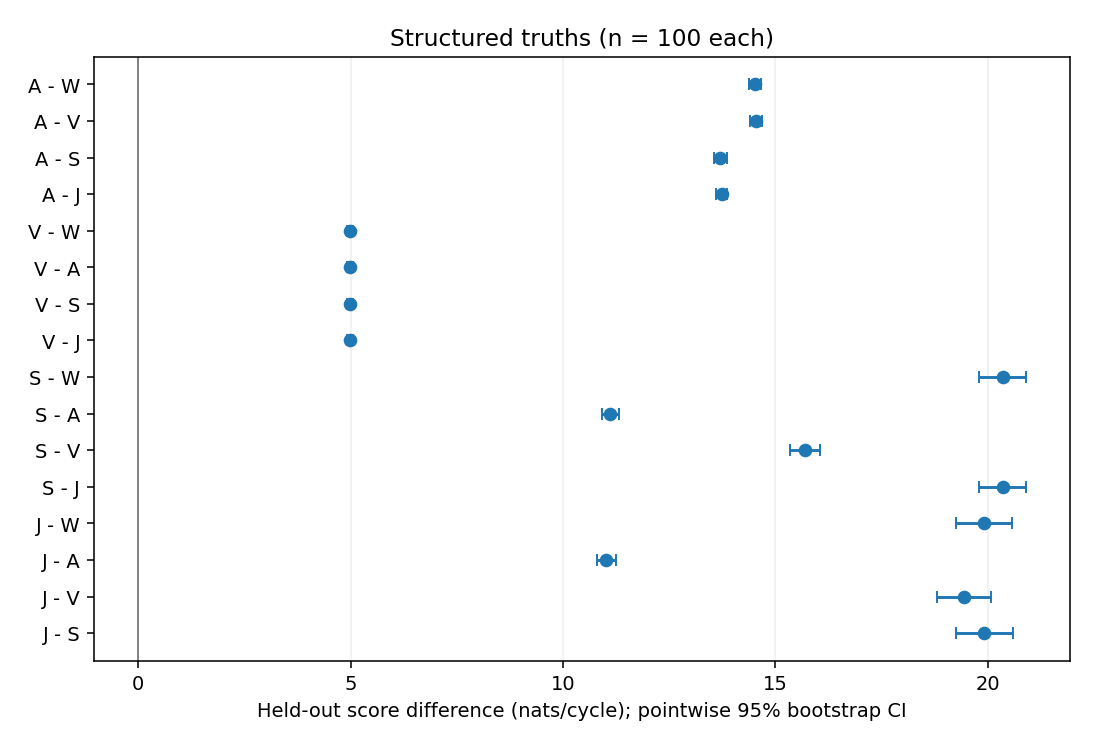
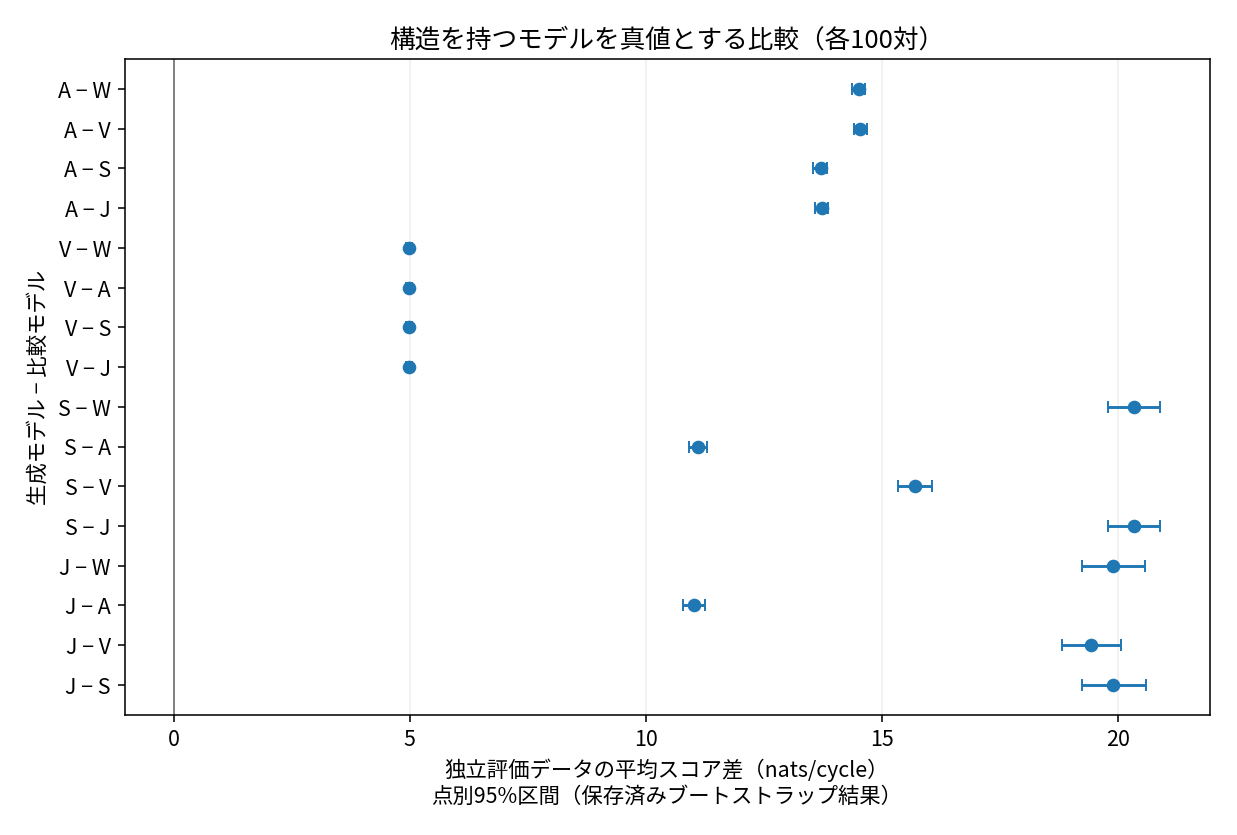
共分散研究の図と用語を日本語化し経験分布を階段表示へ修正

diff --git a/experiments/2026-10-20/oracle-covariance/results/run-002/index.html b/experiments/2026-10-20/oracle-covariance/results/run-002/index.html
@@ -1,10 +1,10 @@
-<!doctype html><html lang="ja"><meta charset="utf-8"><meta name="viewport" content="width=device-width,initial-scale=1"><title>既知人工信号の共分散識別</title><style>:root{color-scheme:light dark}body{font:16px/1.7 system-ui;max-width:1100px;margin:auto;padding:2rem}a{color:light-dark(#174b9c,#9fc8ff)}.notice{border:2px solid #888;padding:1rem}table{border-collapse:collapse}th,td{padding:.5rem;border:1px solid #8886}img{max-width:100%;height:auto;background:white}.scroll{overflow:auto}.audio{display:grid;grid-template-columns:repeat(auto-fit,minmax(260px,1fr));gap:1rem}audio{max-width:100%}h2{margin-top:2rem}</style><h1>周期的な残差の原因をどこまで区別できるか：既知人工信号の有限標本研究</h1>
+<!doctype html><html lang="ja"><meta charset="utf-8"><meta name="viewport" content="width=device-width,initial-scale=1"><title>既知人工信号の共分散識別</title><style>:root{color-scheme:light dark}body{font:16px/1.7 system-ui;max-width:1100px;margin:auto;padding:2rem}a{color:light-dark(#174b9c,#9fc8ff)}.notice{border:2px solid #888;padding:1rem}table{border-collapse:collapse}th,td{padding:.5rem;border:1px solid #8886}img{max-width:100%;height:auto;background:white}.scroll{overflow:auto}.audio{display:grid;grid-template-columns:repeat(auto-fit,minmax(260px,1fr));gap:1rem}audio{max-width:100%}h2{margin-top:2rem}</style><h1>周期的な残差の原因をどこまで区別できるか：既知人工信号の有限標本研究</h1><p>用語：生成条件（truth）はデータを作ったモデル、組（pair）は独立した学習用・評価用データの一組です。対数予測密度（score）は評価用データへの適合を表す値で、大きいほど高くなります。首位（winner）はその最大値、完全同点（tie）は値が完全に等しい場合です。train/testは学習用/評価用、parameterはパラメータを指します。</p>
 <p class="notice"><strong>PML維持。PML／標準vocoderの品質比較は未実施。既知人工q・位相・H=I（伝達作用なし）の限定研究です。</strong>
 <a href="https://hiroshiba.github.io/check-nonml-saikyo-vocoder/research/raw-full-full120-comparison-2026-10-19/index.html">既存の正式品質比較</a>へ進めます。</p>
-<p>全500 pair・2500 scoreが数値回収後に完了しました。4構造truthでは各100/100が生成モデル単独首位。一方、白色truthではW単独3、Wを含む同点24、他構造の単独首位73でした。白色の平均scoreは全競合より高くても、pairごとの首位は一致しません。最大scoreだけで生理的原因を断定できません。</p>
-<p>これは神経モデルの学習ではなく、既知平均と位相の下での統計パラメータの最尤推定です。train/testは独立。有限5モデル内の比較で、自然音声品質、aspiration同定、モデル採用を結論しません。</p>
-<h2>5モデルと固定説明音声</h2><div class="scroll"><table><thead><tr><th>ID</th><th>モデル</th></tr></thead><tbody><tr><td>W</td><td>白色</td></tr><tr><td>A</td><td>1次AR着色</td></tr><tr><td>V</td><td>周期位相依存分散</td></tr><tr><td>S</td><td>周期振幅</td></tr><tr><td>J</td><td>微小時刻ずれの一次近似</td></tr></tbody></table></div><p>Jは微小時刻ずれの一次接線近似であり、独立period jitterやaspirationではありません。各音声は各truthのpair 0の保存test残差＋保存qのみ、全5本共通gain 0.1、0.256秒。良い例の選別はしていません。聴取は評価条件ではなく、HITLの依頼ではありません。</p><div class="audio"><section><h3>W：白色</h3><audio controls preload="none" src="W-pair000-test.wav"></audio></section><section><h3>A：1次AR着色</h3><audio controls preload="none" src="A-pair000-test.wav"></audio></section><section><h3>V：周期位相依存分散</h3><audio controls preload="none" src="V-pair000-test.wav"></audio></section><section><h3>S：周期振幅</h3><audio controls preload="none" src="S-pair000-test.wav"></audio></section><section><h3>J：微小時刻ずれの一次近似</h3><audio controls preload="none" src="J-pair000-test.wav"></audio></section></div><p>PCM16はrint(x×32768)の偶数丸め。clip・dither・個別正規化なし。量子化前peakは全本で範囲内を確認。科学用残差は不変で、新しい乱数生成はありません。<a href="audio-provenance.json">全音声の加工・peak・入力SHA</a>。</p>
-<h2>pairごとの首位と完全同点</h2><p>全truthの分母は100。tieは候補順へ割り振りません。100/100は普遍的成功ではなく、誤選択0/100のWilson95%上限は約3.70%です。</p><img src="winner-counts.png" alt="各truth100pairの単独首位とtieの件数"><div class="scroll"><table><thead><tr><th>truth</th><th>W</th><th>A</th><th>V</th><th>S</th><th>J</th><th>tie</th></tr></thead><tbody><tr><td>W</td><td>3</td><td>27</td><td>23</td><td>9</td><td>14</td><td>24</td></tr><tr><td>A</td><td>0</td><td>100</td><td>0</td><td>0</td><td>0</td><td>0</td></tr><tr><td>V</td><td>0</td><td>0</td><td>100</td><td>0</td><td>0</td><td>0</td></tr><tr><td>S</td><td>0</td><td>0</td><td>0</td><td>100</td><td>0</td><td>0</td></tr><tr><td>J</td><td>0</td><td>0</td><td>0</td><td>0</td><td>100</td><td>0</td></tr></tbody></table></div><p>Wのtie内訳：{W,J}=7、{W,S}=6、{W,S,J}=11。残る4truthはtie 0。</p><div class="scroll"><table><thead><tr><th>truth</th><th>生成モデル単独首位 / 100</th><th>Wilson95%</th></tr></thead><tbody><tr><td>W</td><td>3</td><td>[0.010255, 0.084519]</td></tr><tr><td>A</td><td>100</td><td>[0.963007, 1.0]</td></tr><tr><td>V</td><td>100</td><td>[0.963007, 1.0]</td></tr><tr><td>S</td><td>100</td><td>[0.963007, 1.0]</td></tr><tr><td>J</td><td>100</td><td>[0.963007, 1.0]</td></tr></tbody></table></div><h2>平均score差：白色と構造truthを別スケールで表示</h2><p>差はtruth候補−比較候補。正は平均held-out scoreが高いことを示します。主表示はnats/cycle（正本nats/record÷64）。全20比較n=100、pair単位bootstrap 10,000回の点別95%区間。多重比較補正済みの優越や同等性は主張しません。</p><img src="white-score-differences.png" alt="白色truthの小さい平均score差を独立スケールで表示"><img src="structured-score-differences.png" alt="4構造truthの平均score差"><div class="scroll"><table><thead><tr><th>差</th><th>n</th><th>平均 nats/cycle</th><th>点別95%区間</th></tr></thead><tbody><tr><td>W−A</td><td>100</td><td>0.00626657</td><td>[0.00313935, 0.00972083]</td></tr><tr><td>W−V</td><td>100</td><td>0.0158909</td><td>[0.0109112, 0.0209318]</td></tr><tr><td>W−S</td><td>100</td><td>0.00467789</td><td>[0.00223827, 0.00749764]</td></tr><tr><td>W−J</td><td>100</td><td>0.00258112</td><td>[0.00110615, 0.00425162]</td></tr><tr><td>A−W</td><td>100</td><td>14.512</td><td>[14.3701, 14.6554]</td></tr><tr><td>A−V</td><td>100</td><td>14.5473</td><td>[14.4041, 14.6966]</td></tr><tr><td>A−S</td><td>100</td><td>13.7039</td><td>[13.5543, 13.8515]</td></tr><tr><td>A−J</td><td>100</td><td>13.7343</td><td>[13.5947, 13.8696]</td></tr><tr><td>V−W</td><td>100</td><td>4.98096</td><td>[4.91344, 5.04912]</td></tr><tr><td>V−A</td><td>100</td><td>4.9872</td><td>[4.91973, 5.05532]</td></tr><tr><td>V−S</td><td>100</td><td>4.98096</td><td>[4.91403, 5.04731]</td></tr><tr><td>V−J</td><td>100</td><td>4.98173</td><td>[4.91364, 5.05061]</td></tr><tr><td>S−W</td><td>100</td><td>20.3492</td><td>[19.7989, 20.9018]</td></tr><tr><td>S−A</td><td>100</td><td>11.1118</td><td>[10.9225, 11.3084]</td></tr><tr><td>S−V</td><td>100</td><td>15.6958</td><td>[15.3421, 16.0578]</td></tr><tr><td>S−J</td><td>100</td><td>20.3492</td><td>[19.8061, 20.8997]</td></tr><tr><td>J−W</td><td>100</td><td>19.9119</td><td>[19.2495, 20.5779]</td></tr><tr><td>J−A</td><td>100</td><td>11.022</td><td>[10.7957, 11.2516]</td></tr><tr><td>J−V</td><td>100</td><td>19.4357</td><td>[18.8163, 20.0779]</td></tr><tr><td>J−S</td><td>100</td><td>19.9119</td><td>[19.2436, 20.5978]</td></tr></tbody></table></div><p>S対最良whiteの母分布KL 20.0935 nats/cycleと、有限trainから推定したモデルの実測test score差は同じ量ではありません。−30 dBだけを識別困難さの証拠にはしません。同じ差列でも比較別bootstrap streamにより区間端は異なる場合があります。</p>
-<h2>白色truthで他構造が選ばれた理由を読む</h2><p>新しいscore閾値・採用gateは設けません。max(non-W score)−W scoreは正73・零24・負3。平均の優位性と個々の比較結果を分けます。</p><p>全100pair、nats/cycle：中央値 0.00326495、四分位 [0, 0.0085823]、95百分位 0.0159828、最大 0.0350453。</p><img src="white-selection.png" alt="白色100pairのscore差の分布と誤選択73pairの勝差"><p>他構造の単独首位73件の勝差（首位−第2位、nats/cycle）：中央値 0.00477912、四分位 [0.0020181, 0.0088963]、95百分位 0.0176518、最大 0.0350453。</p><div class="scroll"><table><thead><tr><th>単独首位</th><th>件数</th><th>勝差 nats/cycle</th><th>parameter強度の定義</th><th>強度分布</th></tr></thead><tbody><tr><td>A</td><td>27</td><td>中央値 0.00437036、四分位 [0.00171158, 0.0103211]、95百分位 0.0178144、最大 0.0225913</td><td>abs(a)</td><td>中央値 0.0103634、四分位 [0.00417394, 0.0147579]、95百分位 0.0195742、最大 0.0279185</td></tr><tr><td>V</td><td>23</td><td>中央値 0.00689954、四分位 [0.00458883, 0.0115177]、95百分位 0.0260058、最大 0.0350453</td><td>sqrt(bc^2+bs^2)</td><td>中央値 0.0300756、四分位 [0.0211785, 0.0393724]、95百分位 0.0590798、最大 0.0786173</td></tr><tr><td>S</td><td>9</td><td>中央値 0.00286365、四分位 [0.0020181, 0.00412376]、95百分位 0.00873612、最大 0.0105775</td><td>tau2/sigma2</td><td>中央値 0.00145882、四分位 [0.000788607, 0.00237102]、95百分位 0.00475107、最大 0.00530793</td></tr><tr><td>J</td><td>14</td><td>中央値 0.00199469、四分位 [0.000921419, 0.00599323]、95百分位 0.00854442、最大 0.0110072</td><td>tau2/sigma2</td><td>中央値 0.000986785、四分位 [0.000500562, 0.00250717]、95百分位 0.00290049、最大 0.00297576</td></tr></tbody></table></div><p>Aの|a|、Vのsqrt(bc²+bs²)、S/Jのτ²/σ²はモデル内の異なる強度で、相互に同一尺度ではありません。S/Jの追加固有値/白色分散比（実direction norm²×τ²/σ²）もJSONに保存しています。いずれも生理的原因の強さではありません。</p><h2>初回失敗と数値回収の来歴</h2><p>初回は500pair生成・2500fit試行、2112成功・VのKKT失敗388件。VのSLSQP success flagと独立KKT gateの精度が一致しませんでした。初回の混同行列はV成功に条件付けられた別集計として保存し、全100の識別率へ書き換えていません。</p><p>v2は同じ入力・同じモデル・同じKKT gateで388件だけを内部Newton精密化し、全件1stepで回収しました。最終KKT最大2.36835e−14。旧成功2112件をそのまま保持し、残差を再生成していません。これは計算精密化であり、モデル改善・音質改善ではありません。元ソース・入力のhash不変を確認済みです。</p>
+<p>全500 組・2500 対数予測密度が数値回収後に完了しました。4構造生成条件では各100/100が生成モデル単独首位。一方、白色生成条件ではW単独3、Wを含む同点24、他構造の単独首位73でした。白色の平均対数予測密度は全競合より高くても、組ごとの首位は一致しません。最大対数予測密度だけで生理的原因を断定できません。</p>
+<p>これは神経モデルの学習ではなく、既知平均と位相の下での統計パラメータの最尤推定です。学習用/評価用は独立。有限5モデル内の比較で、自然音声品質、aspiration同定、モデル採用を結論しません。</p>
+<h2>5モデルと固定説明音声</h2><div class="scroll"><table><thead><tr><th>ID</th><th>モデル</th></tr></thead><tbody><tr><td>W</td><td>白色</td></tr><tr><td>A</td><td>1次AR着色</td></tr><tr><td>V</td><td>周期位相依存分散</td></tr><tr><td>S</td><td>周期振幅</td></tr><tr><td>J</td><td>微小時刻ずれの一次近似</td></tr></tbody></table></div><p>Jは微小時刻ずれの一次接線近似であり、独立period jitterやaspirationではありません。各音声は各生成条件の組 0の保存評価用残差＋保存qのみ、全5本共通gain 0.1、0.256秒。良い例の選別はしていません。聴取は評価条件ではなく、HITLの依頼ではありません。</p><div class="audio"><section><h3>W：白色</h3><audio controls preload="none" src="W-pair000-test.wav"></audio></section><section><h3>A：1次AR着色</h3><audio controls preload="none" src="A-pair000-test.wav"></audio></section><section><h3>V：周期位相依存分散</h3><audio controls preload="none" src="V-pair000-test.wav"></audio></section><section><h3>S：周期振幅</h3><audio controls preload="none" src="S-pair000-test.wav"></audio></section><section><h3>J：微小時刻ずれの一次近似</h3><audio controls preload="none" src="J-pair000-test.wav"></audio></section></div><p>PCM16はrint(x×32768)の偶数丸め。clip・dither・個別正規化なし。量子化前peakは全本で範囲内を確認。科学用残差は不変で、新しい乱数生成はありません。<a href="audio-provenance.json">全音声の加工・peak・入力SHA</a>。</p>
+<h2>組ごとの首位と完全同点</h2><p>全生成条件の分母は100。完全同点は候補順へ割り振りません。100/100は普遍的成功ではなく、誤選択0/100のWilson95%上限は約3.70%です。</p><figure><img src="winner-counts.png" alt="各生成モデル100対について、独立評価スコアの単独首位と完全同点を示します。同点は特定モデルへ割り振りません。"><figcaption>各生成モデル100対について、独立評価対数予測密度の単独首位と完全同点を示します。同点は特定モデルへ割り振りません。</figcaption></figure><div class="scroll"><table><thead><tr><th>生成条件</th><th>W</th><th>A</th><th>V</th><th>S</th><th>J</th><th>完全同点</th></tr></thead><tbody><tr><td>W</td><td>3</td><td>27</td><td>23</td><td>9</td><td>14</td><td>24</td></tr><tr><td>A</td><td>0</td><td>100</td><td>0</td><td>0</td><td>0</td><td>0</td></tr><tr><td>V</td><td>0</td><td>0</td><td>100</td><td>0</td><td>0</td><td>0</td></tr><tr><td>S</td><td>0</td><td>0</td><td>0</td><td>100</td><td>0</td><td>0</td></tr><tr><td>J</td><td>0</td><td>0</td><td>0</td><td>0</td><td>100</td><td>0</td></tr></tbody></table></div><p>Wの完全同点内訳：{W,J}=7、{W,S}=6、{W,S,J}=11。残る4生成条件は完全同点 0。</p><div class="scroll"><table><thead><tr><th>生成条件</th><th>生成モデル単独首位 / 100</th><th>Wilson95%</th></tr></thead><tbody><tr><td>W</td><td>3</td><td>[0.010255, 0.084519]</td></tr><tr><td>A</td><td>100</td><td>[0.963007, 1.0]</td></tr><tr><td>V</td><td>100</td><td>[0.963007, 1.0]</td></tr><tr><td>S</td><td>100</td><td>[0.963007, 1.0]</td></tr><tr><td>J</td><td>100</td><td>[0.963007, 1.0]</td></tr></tbody></table></div><h2>平均対数予測密度差：白色と構造生成条件を別スケールで表示</h2><p>差は生成条件候補−比較候補。正は平均held-out 対数予測密度が高いことを示します。主表示はnats/cycle（正本nats/record÷64）。全20比較n=100、組単位bootstrap 10,000回の点別95%区間。多重比較補正済みの優越や同等性は主張しません。</p><figure><img src="white-score-differences.png" alt="白色Wが真値の場合の平均スコア差。点は保存平均、横棒は保存済みの点別95%区間です。小さな差を読むため横軸を独立させています。"><figcaption>白色Wが真値の場合の平均対数予測密度差。点は保存平均、横棒は保存済みの点別95%区間です。小さな差を読むため横軸を独立させています。</figcaption></figure><figure><img src="structured-score-differences.png" alt="構造を持つA/V/S/Jが真値の場合の平均スコア差。正の値は生成モデルの平均スコアが比較モデルより高いことを示します。区間は保存済みの点別95%区間です。"><figcaption>構造を持つA/V/S/Jが真値の場合の平均対数予測密度差。正の値は生成モデルの平均対数予測密度が比較モデルより高いことを示します。区間は保存済みの点別95%区間です。</figcaption></figure><div class="scroll"><table><thead><tr><th>差</th><th>n</th><th>平均 nats/cycle</th><th>点別95%区間</th></tr></thead><tbody><tr><td>W−A</td><td>100</td><td>0.00626657</td><td>[0.00313935, 0.00972083]</td></tr><tr><td>W−V</td><td>100</td><td>0.0158909</td><td>[0.0109112, 0.0209318]</td></tr><tr><td>W−S</td><td>100</td><td>0.00467789</td><td>[0.00223827, 0.00749764]</td></tr><tr><td>W−J</td><td>100</td><td>0.00258112</td><td>[0.00110615, 0.00425162]</td></tr><tr><td>A−W</td><td>100</td><td>14.512</td><td>[14.3701, 14.6554]</td></tr><tr><td>A−V</td><td>100</td><td>14.5473</td><td>[14.4041, 14.6966]</td></tr><tr><td>A−S</td><td>100</td><td>13.7039</td><td>[13.5543, 13.8515]</td></tr><tr><td>A−J</td><td>100</td><td>13.7343</td><td>[13.5947, 13.8696]</td></tr><tr><td>V−W</td><td>100</td><td>4.98096</td><td>[4.91344, 5.04912]</td></tr><tr><td>V−A</td><td>100</td><td>4.9872</td><td>[4.91973, 5.05532]</td></tr><tr><td>V−S</td><td>100</td><td>4.98096</td><td>[4.91403, 5.04731]</td></tr><tr><td>V−J</td><td>100</td><td>4.98173</td><td>[4.91364, 5.05061]</td></tr><tr><td>S−W</td><td>100</td><td>20.3492</td><td>[19.7989, 20.9018]</td></tr><tr><td>S−A</td><td>100</td><td>11.1118</td><td>[10.9225, 11.3084]</td></tr><tr><td>S−V</td><td>100</td><td>15.6958</td><td>[15.3421, 16.0578]</td></tr><tr><td>S−J</td><td>100</td><td>20.3492</td><td>[19.8061, 20.8997]</td></tr><tr><td>J−W</td><td>100</td><td>19.9119</td><td>[19.2495, 20.5779]</td></tr><tr><td>J−A</td><td>100</td><td>11.022</td><td>[10.7957, 11.2516]</td></tr><tr><td>J−V</td><td>100</td><td>19.4357</td><td>[18.8163, 20.0779]</td></tr><tr><td>J−S</td><td>100</td><td>19.9119</td><td>[19.2436, 20.5978]</td></tr></tbody></table></div><p>S対最良whiteの母分布KL 20.0935 nats/cycleと、有限学習用から推定したモデルの実測評価用 対数予測密度差は同じ量ではありません。−30 dBだけを識別困難さの証拠にはしません。同じ差列でも比較別bootstrap streamにより区間端は異なる場合があります。</p>
+<h2>白色生成条件で他構造が選ばれた理由を読む</h2><p>新しい対数予測密度閾値・採用gateは設けません。max(non-W 対数予測密度)−W 対数予測密度は正73・零24・負3。平均の優位性と個々の比較結果を分けます。</p><p>全100組、nats/cycle：中央値 0.00326495、四分位 [0, 0.0085823]、95百分位 0.0159828、最大 0.0350453。</p><figure><img src="white-selection.png" alt="左は保存された全100対の差から作る右連続の経験累積分布 F(x)。重複値は一つの跳びにまとめ、差0の24対で0.03から0.27へ跳びます。白抜き点は左極限、塗り点は差0での値で、点間の線形補間はしません。右はW以外が単独首位となった73対の首位と第2位の差です。"><figcaption>左は保存された全100対の差から作る右連続の経験累積分布 F(x)。重複値は一つの跳びにまとめ、差0の24対で0.03から0.27へ跳びます。白抜き点は左極限、塗り点は差0での値で、点間の線形補間はしません。右はW以外が単独首位となった73対の首位と第2位の差です。</figcaption></figure><p>他構造の単独首位73件の勝差（首位−第2位、nats/cycle）：中央値 0.00477912、四分位 [0.0020181, 0.0088963]、95百分位 0.0176518、最大 0.0350453。</p><div class="scroll"><table><thead><tr><th>単独首位</th><th>件数</th><th>勝差 nats/cycle</th><th>パラメータ強度の定義</th><th>強度分布</th></tr></thead><tbody><tr><td>A</td><td>27</td><td>中央値 0.00437036、四分位 [0.00171158, 0.0103211]、95百分位 0.0178144、最大 0.0225913</td><td>abs(a)</td><td>中央値 0.0103634、四分位 [0.00417394, 0.0147579]、95百分位 0.0195742、最大 0.0279185</td></tr><tr><td>V</td><td>23</td><td>中央値 0.00689954、四分位 [0.00458883, 0.0115177]、95百分位 0.0260058、最大 0.0350453</td><td>sqrt(bc^2+bs^2)</td><td>中央値 0.0300756、四分位 [0.0211785, 0.0393724]、95百分位 0.0590798、最大 0.0786173</td></tr><tr><td>S</td><td>9</td><td>中央値 0.00286365、四分位 [0.0020181, 0.00412376]、95百分位 0.00873612、最大 0.0105775</td><td>tau2/sigma2</td><td>中央値 0.00145882、四分位 [0.000788607, 0.00237102]、95百分位 0.00475107、最大 0.00530793</td></tr><tr><td>J</td><td>14</td><td>中央値 0.00199469、四分位 [0.000921419, 0.00599323]、95百分位 0.00854442、最大 0.0110072</td><td>tau2/sigma2</td><td>中央値 0.000986785、四分位 [0.000500562, 0.00250717]、95百分位 0.00290049、最大 0.00297576</td></tr></tbody></table></div><p>Aの|a|、Vのsqrt(bc²+bs²)、S/Jのτ²/σ²はモデル内の異なる強度で、相互に同一尺度ではありません。S/Jの追加固有値/白色分散比（実direction norm²×τ²/σ²）もJSONに保存しています。いずれも生理的原因の強さではありません。</p><h2>初回失敗と数値回収の来歴</h2><p>初回は500組生成・2500fit試行、2112成功・VのKKT失敗388件。VのSLSQP success flagと独立KKT gateの精度が一致しませんでした。初回の混同行列はV成功に条件付けられた別集計として保存し、全100の識別率へ書き換えていません。</p><p>v2は同じ入力・同じモデル・同じKKT gateで388件だけを内部Newton精密化し、全件1stepで回収しました。最終KKT最大2.36835e−14。旧成功2112件をそのまま保持し、残差を再生成していません。これは計算精密化であり、モデル改善・音質改善ではありません。元ソース・入力のhash不変を確認済みです。</p>
 <p>初回wall 14.814759秒、回収wall 5.925861秒。回収checkpointのstatus文字列は実装上startingのままですが、最終receiptはcompletedで500処理・388成功を記録しています。</p>
-<h2>保存値・定義</h2><ul><li><a href="merged-summary-nats-record.json">合流正本：nats/record・Wilson・全pair差</a></li><li><a href="initial-conditional-summary-nats-record.json">初回の成功条件付き集計（保持）</a></li><li><a href="paired-score-differences.csv">全20差：record/cycle併記</a></li><li><a href="all-saved-scores-parameters.csv">全2500保存score・parameters</a></li><li><a href="white-selection-analysis.json">白色100pair・分布・強度の全数値</a></li><li><a href="white-selection.csv">白色100pairの差とwinner</a></li><li><a href="scientific-contract.json">固定科学条件</a></li><li><a href="provenance.json">実行・集計来歴</a></li><li><a href="artifact-manifest.json">成果物SHA・サイズ</a></li></ul><p>固定100pairは記述的予算で、正式品質評価の100自然音声とは別です。普遍的識別成功・稀な誤りの精密測定・生理的原因の同定を主張しません。PMLを維持します。</p></html>
+<h2>保存値・定義</h2><ul><li><a href="merged-summary-nats-record.json">合流正本：nats/record・Wilson・全組差</a></li><li><a href="initial-conditional-summary-nats-record.json">初回の成功条件付き集計（保持）</a></li><li><a href="paired-score-differences.csv">全20差：record/cycle併記</a></li><li><a href="all-saved-scores-parameters.csv">全2500保存対数予測密度・パラメータ</a></li><li><a href="white-selection-analysis.json">白色100組・分布・強度の全数値</a></li><li><a href="white-selection.csv">白色100組の差と首位</a></li><li><a href="scientific-contract.json">固定科学条件</a></li><li><a href="provenance.json">実行・集計来歴</a></li><li><a href="artifact-manifest.json">成果物SHA・サイズ</a></li></ul><p>固定100組は記述的予算で、正式品質評価の100自然音声とは別です。普遍的識別成功・稀な誤りの精密測定・生理的原因の同定を主張しません。PMLを維持します。</p></html>
